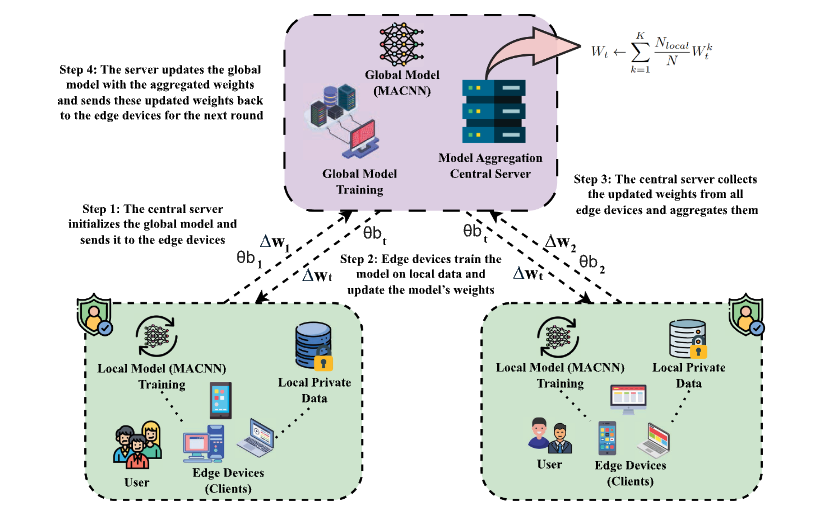
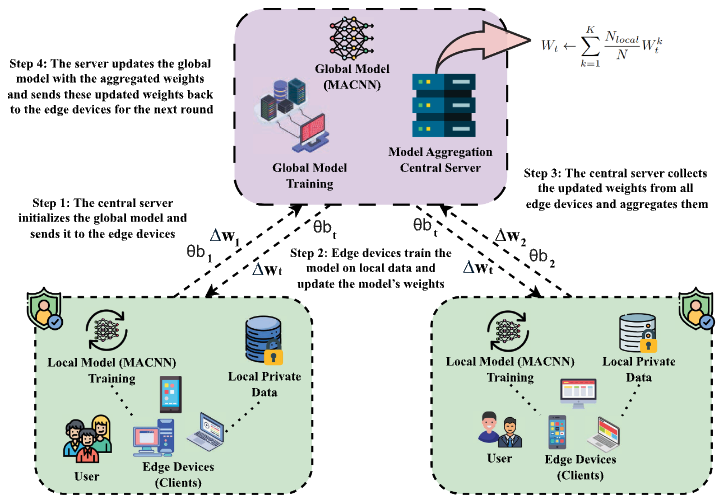
Show highlight figures uncropped and let titles fill the line
- Figures keep their own shape at a fixed width instead of being
  fitted into a 16:10 frame, so nothing is cropped or letterboxed.
- Card titles wrap normally across the full text column instead of
  being balanced into shorter lines.
- Re-export the FMACNN and warehouse figures without the extra
  padding that was only needed for the old frame.

Claude-Session: https://claude.ai/code/session_01PDNt9u9bdecjmGnnKQyqPL

Changed region(s): [[0.0, 0.0, 1.0, 0.9841]]

diff --git a/index.html b/index.html
@@ -271,7 +271,7 @@
 
         <article class="hl" data-cat="vision">
           <figure class="hl__fig">
-            <button class="hl__zoom" type="button" aria-label="Enlarge figure: adaptive reconstruction pipeline"><img class="is-contain" src="images/highlights/uav-adaptive-reconstruction.png" width="412" height="430" alt="Pipeline: a UAV input image goes through CD-DPA and weak-region selection, the weak regions are reconstructed, a reconstruction error map guides feature enhancement, and detection produces the final output with small objects found"></button>
+            <button class="hl__zoom" type="button" aria-label="Enlarge figure: adaptive reconstruction pipeline"><img src="images/highlights/uav-adaptive-reconstruction.png" width="412" height="430" alt="Pipeline: a UAV input image goes through CD-DPA and weak-region selection, the weak regions are reconstructed, a reconstruction error map guides feature enhancement, and detection produces the final output with small objects found"></button>
           </figure>
           <div class="hl__body">
             <h3 class="hl__title"><a href="https://ieeexplore.ieee.org/abstract/document/11708585">Adaptive Reconstruction and Deformable Attention for UAV Small-Object Detection</a></h3>
@@ -283,7 +283,7 @@
 
         <article class="hl" data-cat="vision">
           <figure class="hl__fig">
-            <button class="hl__zoom" type="button" aria-label="Enlarge figure: multi-CNN transformer fusion architecture"><img class="is-contain" src="images/highlights/anomaly-multicnn-transformer.png" width="647" height="390" alt="Architecture: VGG16, DenseNet121 and ResNet50 branches with CFA, RHA and GCA attention and fine-tuned layers produce features that are concatenated, reshaped, and passed through a transformer block with spatial-reduction multi-head attention before dense and softmax layers"></button>
+            <button class="hl__zoom" type="button" aria-label="Enlarge figure: multi-CNN transformer fusion architecture"><img src="images/highlights/anomaly-multicnn-transformer.png" width="647" height="390" alt="Architecture: VGG16, DenseNet121 and ResNet50 branches with CFA, RHA and GCA attention and fine-tuned layers produce features that are concatenated, reshaped, and passed through a transformer block with spatial-reduction multi-head attention before dense and softmax layers"></button>
           </figure>
           <div class="hl__body">
             <h3 class="hl__title"><a href="https://ieeexplore.ieee.org/document/11361039">Stable Diffusion-Augmented Industrial Anomaly Detection Using Attention-Enhanced Multi-CNN Transformer Fusion</a></h3>
@@ -298,7 +298,7 @@
 
         <article class="hl" data-cat="learning">
           <figure class="hl__fig">
-            <button class="hl__zoom" type="button" aria-label="Enlarge figure: FMACNN federated learning workflow"><img src="images/highlights/fmacnn-federated-workflow.png" width="824" height="515" alt="FMACNN workflow: the central server sends the global MACNN model to edge clients, each client trains on its local private data and returns weight updates, and the server aggregates them by weighted averaging for the next round"></button>
+            <button class="hl__zoom" type="button" aria-label="Enlarge figure: FMACNN federated learning workflow"><img src="images/highlights/fmacnn-federated-workflow.png" width="724" height="503" alt="FMACNN workflow: the central server sends the global MACNN model to edge clients, each client trains on its local private data and returns weight updates, and the server aggregates them by weighted averaging for the next round"></button>
           </figure>
           <div class="hl__body">
             <h3 class="hl__title"><a href="https://www.sciencedirect.com/science/article/pii/S221421262600092X">FMACNN: Federated Multi-Attention CNN Framework for Artificial Image Detection</a></h3>
@@ -313,7 +313,7 @@
 
         <article class="hl" data-cat="twins">
           <figure class="hl__fig">
-            <button class="hl__zoom" type="button" aria-label="Enlarge figure: warehouse digital twin"><img src="images/highlights/warehouse-digital-twin.png" width="539" height="337" alt="Simulated warehouse digital twin with rows of shelving in Zones A to D, forklifts, and conveyors"></button>
+            <button class="hl__zoom" type="button" aria-label="Enlarge figure: warehouse digital twin"><img src="images/highlights/warehouse-digital-twin.png" width="539" height="261" alt="Simulated warehouse digital twin with rows of shelving in Zones A to D, forklifts, and conveyors"></button>
           </figure>
           <div class="hl__body">
             <h3 class="hl__title"><a href="https://drive.google.com/drive/folders/1H6q3W1Jvgn1AUsRagMUmvTRIGBjg9AW7">AI-Driven Digital Twin Framework for Warehouse Logistics Automation Optimization</a></h3>
@@ -328,7 +328,7 @@
 
         <article class="hl" data-cat="learning">
           <figure class="hl__fig">
-            <button class="hl__zoom" type="button" aria-label="Enlarge figure: TMNet workflow"><img class="is-contain" src="images/highlights/tmnet-workflow.png" width="905" height="347" alt="TMNet workflow: EEG signals go through acquisition, noise filtering, artifact removal, normalization, segmentation and feature extraction, audio goes through a spectrogram, noise filtering and feature extraction, and both feature vectors are aligned with DTW and combined by transformer fusion to classify emotion"></button>
+            <button class="hl__zoom" type="button" aria-label="Enlarge figure: TMNet workflow"><img src="images/highlights/tmnet-workflow.png" width="905" height="347" alt="TMNet workflow: EEG signals go through acquisition, noise filtering, artifact removal, normalization, segmentation and feature extraction, audio goes through a spectrogram, noise filtering and feature extraction, and both feature vectors are aligned with DTW and combined by transformer fusion to classify emotion"></button>
           </figure>
           <div class="hl__body">
             <h3 class="hl__title"><a href="https://www.sciencedirect.com/science/article/pii/S2405959525000517">TMNet: Transformer-Fused Multimodal Framework for Emotion Recognition via EEG and Speech</a></h3>
@@ -343,7 +343,7 @@
 
         <article class="hl" data-cat="twins">
           <figure class="hl__fig">
-            <button class="hl__zoom" type="button" aria-label="Enlarge figure: digital twin-driven knowledge distillation"><img class="is-contain" src="images/highlights/kd-edge-monitoring.png" width="942" height="500" alt="Teacher-student framework: a teacher model trained on digital twin simulation data produces soft labels and pseudo-labelled data, and a student model trained on real and simulated data learns from soft, hard and bounding-box losses combined into a distillation loss"></button>
+            <button class="hl__zoom" type="button" aria-label="Enlarge figure: digital twin-driven knowledge distillation"><img src="images/highlights/kd-edge-monitoring.png" width="942" height="500" alt="Teacher-student framework: a teacher model trained on digital twin simulation data produces soft labels and pseudo-labelled data, and a student model trained on real and simulated data learns from soft, hard and bounding-box losses combined into a distillation loss"></button>
           </figure>
           <div class="hl__body">
             <h3 class="hl__title"><a href="https://drive.google.com/file/d/1vMmlvGevSJcnU0G8HqnafLjOd7ROq5q-/view?usp=sharing">Digital Twin-Driven Semi-Supervised Knowledge Distillation for HMI Monitoring on Edge Device</a></h3>
@@ -355,7 +355,7 @@
 
         <article class="hl" data-cat="twins">
           <figure class="hl__fig">
-            <button class="hl__zoom" type="button" aria-label="Enlarge figure: BLIND-Twin architecture"><img class="is-contain" src="images/highlights/blind-twin.png" width="879" height="579" alt="BLIND-Twin architecture: physical and digital twin layers of smart nuclear facilities, power plants and medical sites feed a data and network module, a blockchain layer with IPFS off-chain storage and smart contracts, and a detection layer with network monitoring, intrusion detection, and LLM context learning for threat response against attackers"></button>
+            <button class="hl__zoom" type="button" aria-label="Enlarge figure: BLIND-Twin architecture"><img src="images/highlights/blind-twin.png" width="879" height="579" alt="BLIND-Twin architecture: physical and digital twin layers of smart nuclear facilities, power plants and medical sites feed a data and network module, a blockchain layer with IPFS off-chain storage and smart contracts, and a detection layer with network monitoring, intrusion detection, and LLM context learning for threat response against attackers"></button>
           </figure>
           <div class="hl__body">
             <h3 class="hl__title"><a href="https://ieeexplore.ieee.org/abstract/document/11161313/">BLIND-Twin: Blockchain-Assisted LLM-Based CDS for Digital Twin-Enhanced Industrial AIoT</a></h3>

diff --git a/assets/css/style.css b/assets/css/style.css
@@ -683,12 +683,12 @@ strong, b { font-weight: 600; }
 .hl:hover { border-color: color-mix(in srgb, var(--accent) 35%, var(--rule)); }
 
 @media (min-width: 640px) {
-  .hl { grid-template-columns: 236px minmax(0, 1fr); gap: 20px; }
+  .hl { grid-template-columns: 280px minmax(0, 1fr); gap: 22px; align-items: center; }
 }
 
 .hl__fig {
   margin: 0;
-  align-self: start;
+  align-self: center;
   display: grid;
   gap: 8px;
   min-width: 0;
@@ -700,13 +700,12 @@ strong, b { font-weight: 600; }
   border: 1px solid var(--rule);
   border-radius: 9px;
   overflow: hidden;
-  background: var(--figure-bg);
+  background: var(--figure-paper);
   cursor: zoom-in;
 }
 .hl__zoom:hover { border-color: color-mix(in srgb, var(--accent) 45%, var(--rule)); }
-.hl__fig img { width: 100%; aspect-ratio: 16 / 10; object-fit: cover; }
-/* real paper figures keep their full shape inside the 16:10 frame */
-.hl__fig img.is-contain { object-fit: contain; background: var(--figure-paper); }
+/* figures keep their own shape: never cropped, never letterboxed */
+.hl__fig img { width: 100%; height: auto; display: block; background: var(--figure-paper); }
 .hl__meta { display: flex; flex-wrap: wrap; align-items: center; gap: 6px 8px; margin-top: 2px; }
 .hl__venue {
   padding: 2px 8px;
@@ -720,7 +719,7 @@ strong, b { font-weight: 600; }
 }
 
 .hl__body { display: grid; gap: 6px; align-content: start; min-width: 0; }
-.hl__title { font-size: 1.0625rem; font-weight: 600; line-height: 1.4; color: var(--ink); }
+.hl__title { font-size: 1.0625rem; font-weight: 600; line-height: 1.4; color: var(--ink); text-wrap: wrap; }
 .hl__title a { color: inherit; text-decoration: none; }
 .hl__title a:hover { color: var(--accent); text-decoration: underline; }
 .hl__authors { font-size: 0.875rem; color: var(--ink-2); }
